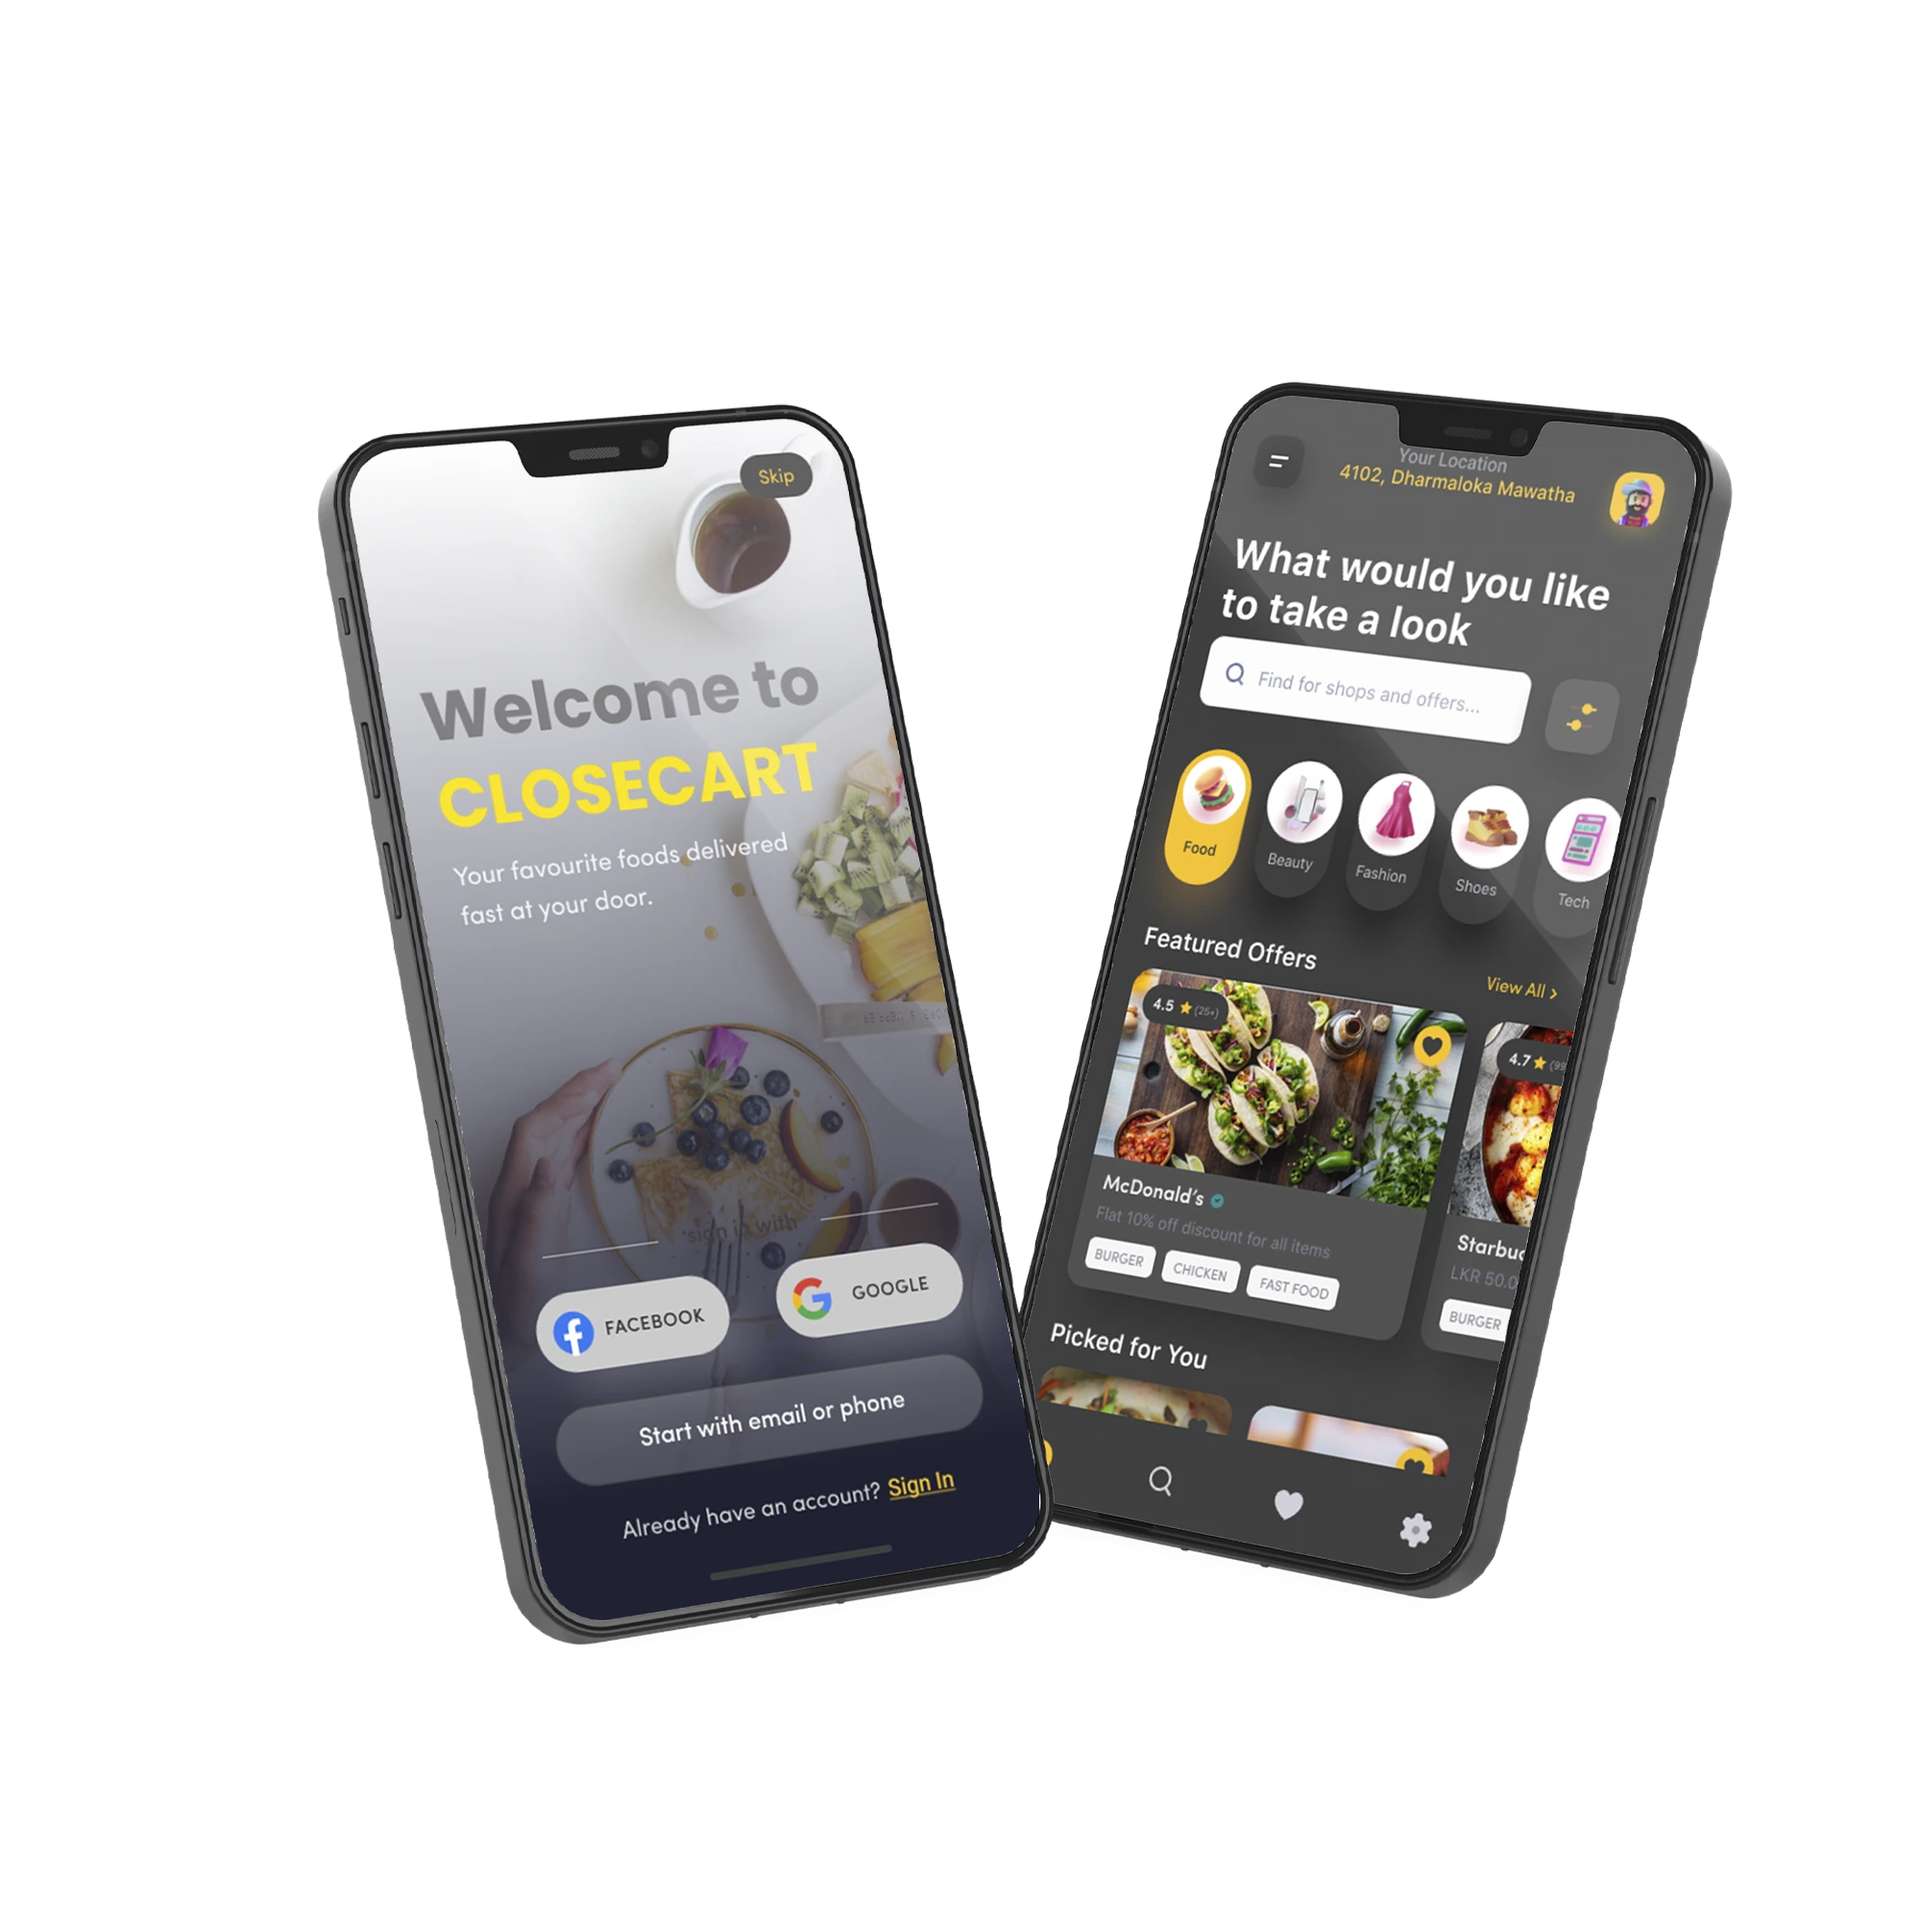
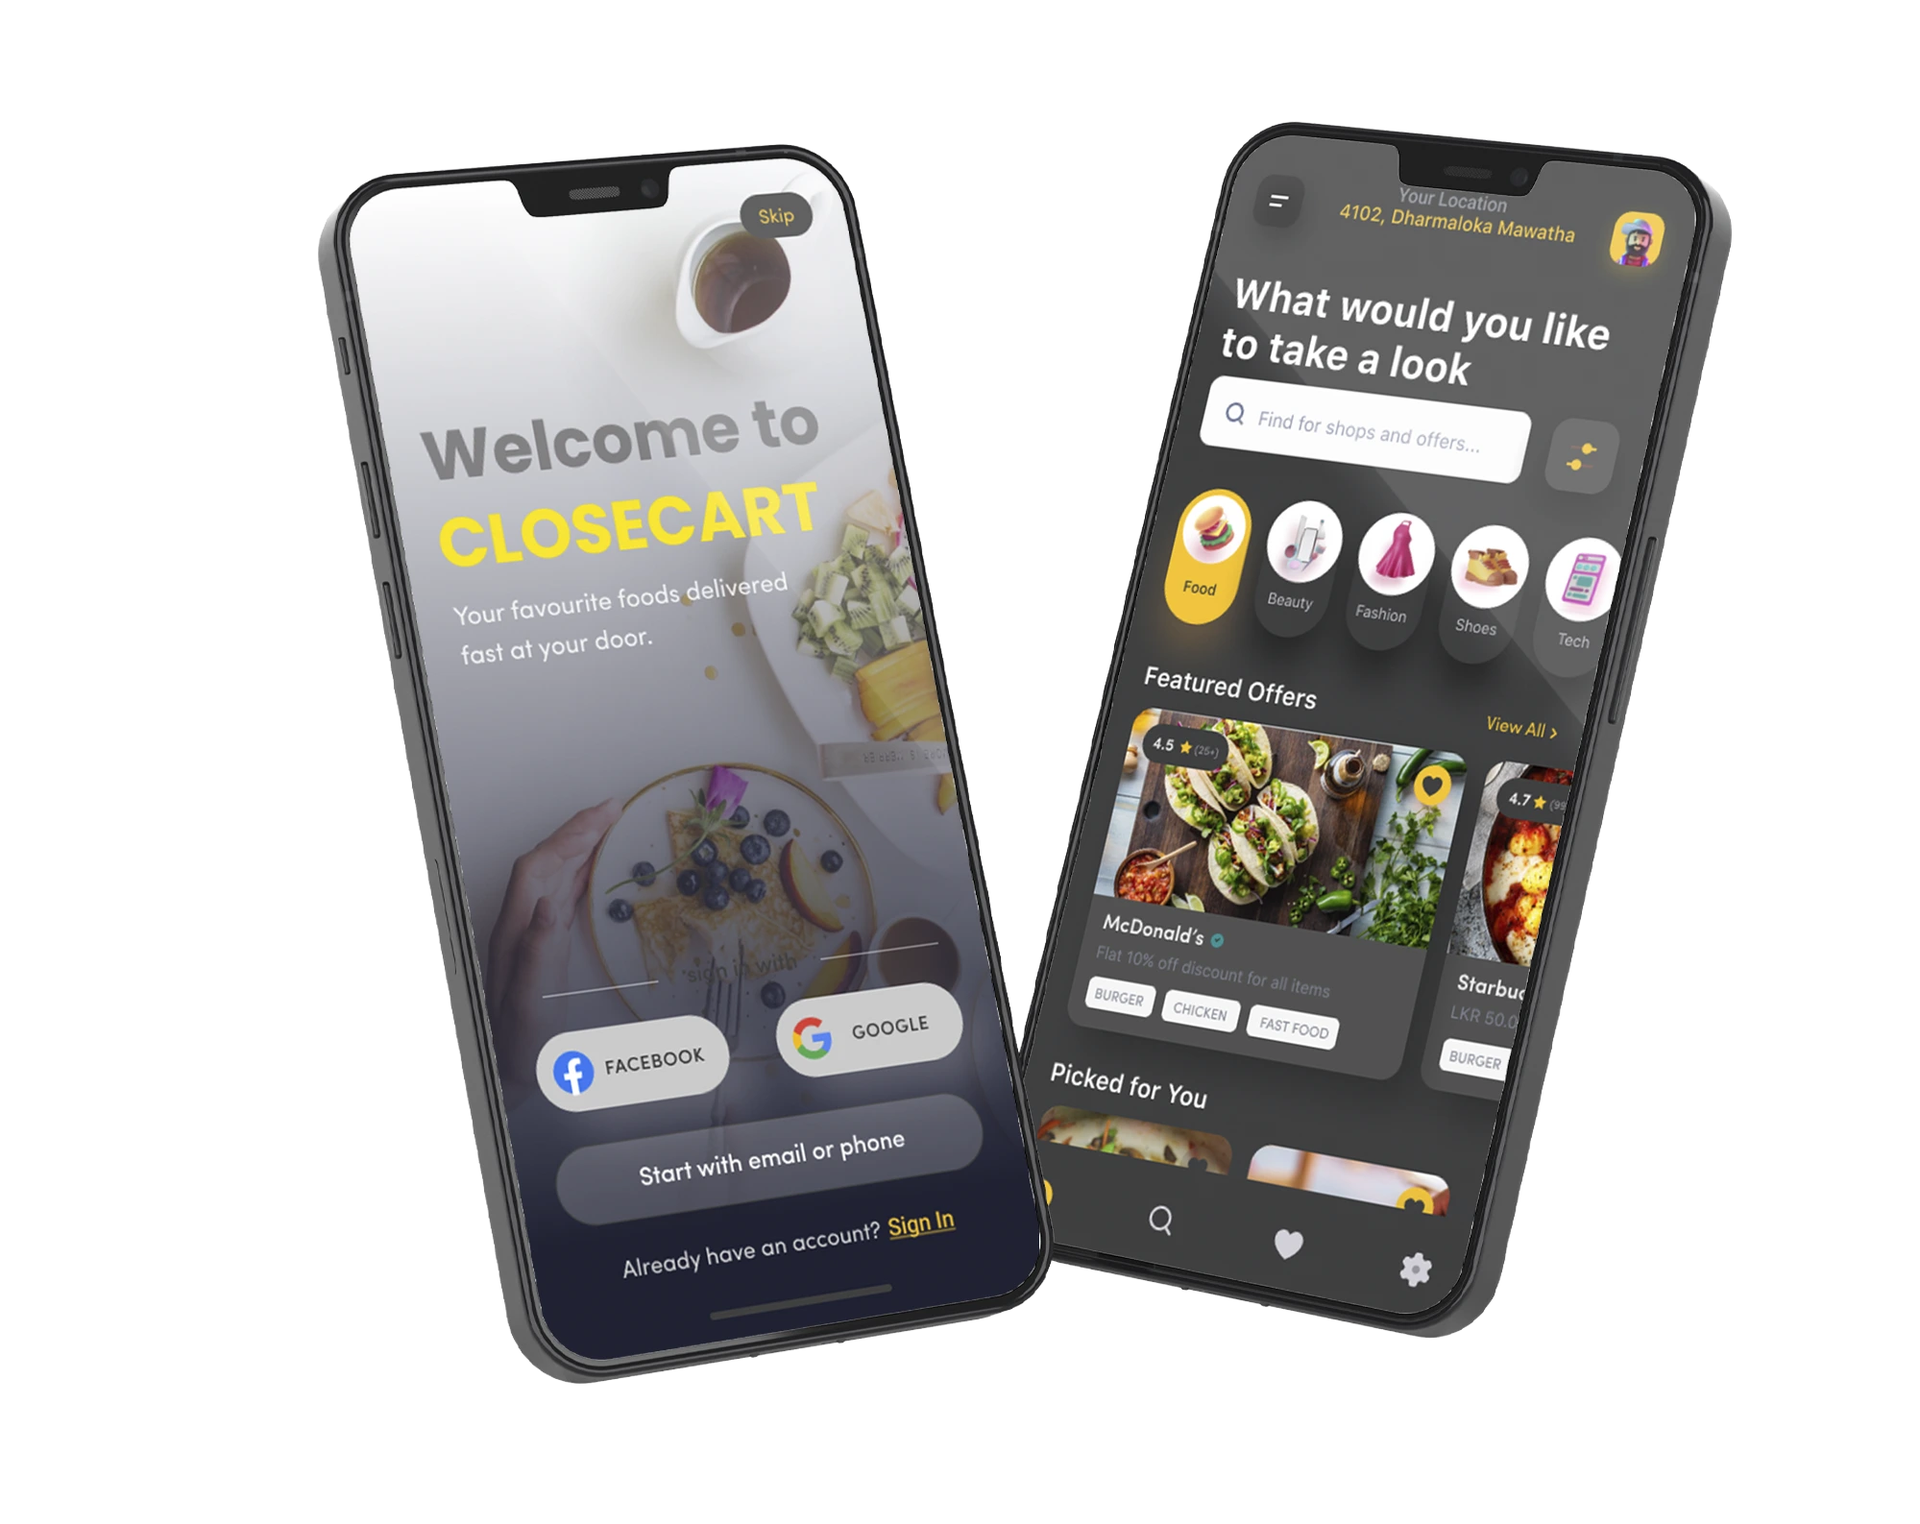
image resized

Changed region(s): [[0.1551, 0.0618, 0.8994, 0.9263]]

diff --git a/src/hero.jsx b/src/hero.jsx
@@ -42,7 +42,7 @@ const Hero = () => {
             </div>
 
             <div className="order-1 lg:order-2">
-              <img className="w-full my-0" src={HeroImage} alt="" />
+              <img className="w-full my-0 md:my-12" src={HeroImage} alt="" />
             </div>
           </div>
         </div>
